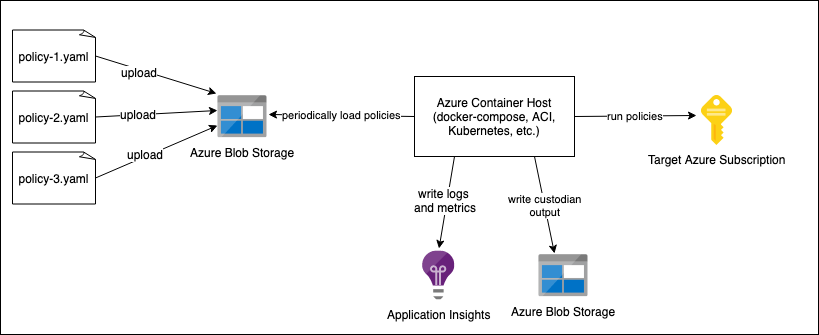
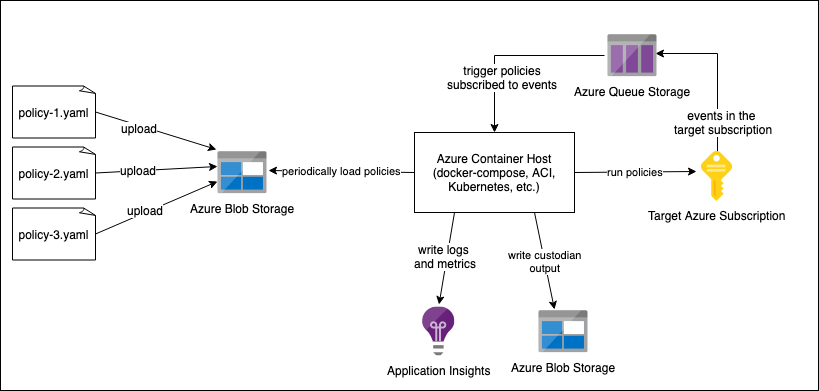
improvements to docs

diff --git a/docs/source/azure/configuration/containerhosting.rst b/docs/source/azure/configuration/containerhosting.rst
@@ -3,16 +3,23 @@
 Azure Container Hosting
 =======================
 
-The Azure Container Host is an alternative execution mode for the cloud custodian azure provider.
-Running the Azure Container Host is done with the `official custodian docker image <https://hub.docker.com/r/cloudcustodian/c7n>`_
-by providing the custom entry point, ``/usr/local/bin/python3 -m c7n_azure.container_host.host``, 
-and custom configuration through environment variables.
+The Azure Container Host is an alternate execution mode for the cloud custodian azure provider.
+Running the Azure Container Host is done with the `official custodian docker image <https://hub.docker.com/r/cloudcustodian/c7n>`_.
+See the :ref:`ACI <azure_configuration_acitutorial>` and :ref:`Kubernetes <azure_configuration_helmtutorial>` deployment tutorials
+to get started running the Azure Container Host.
+
+How It Works
+############
 
 The Azure Container Host will periodically scan azure blob storage for a set of custodian policies 
-to execute in either a periodic or event based mode against a target subscription. Once the
-Azure Container Host is deployed, any policies uploaded to blob storage are automatically loaded and
-running against an Azure Subscription. This makes it very easy to manage and run a large number of
-policies.
+to execute in either a periodic or event based mode against a target subscription. For periodic
+policies, the container host will execute the policy on the cron schedule that is provided. For event
+based policies, the container host maintains an azure queue that subscribes to events in the target
+azure subscription.
+
+Once the Azure Container Host is deployed, any policies uploaded to blob storage are automatically 
+loaded and running against an Azure Subscription. This makes it very easy to manage and run a large 
+number of policies.
 
 .. image:: resources/container-host.png
 
@@ -38,16 +45,6 @@ Configuration
 #############
 
 Configuration for the container host is provided as environment variables. 
-See :ref:`azure_authentication` for authenticating the contaienr host. 
-
-The identity provided to the container host must have the following roles in azure:
-
-- ``Reader`` and ``Storage Blob Data Contributor`` on the Storage Account that holds the policy files.
-
-- ``Reader`` and ``Storage Queue Message Processor`` on the Storage Account that the event queue will live in.
-
-- Any other roles that are needed to run the policies that the container host will run. For example, if there is a policy that filters the ``azure.vm`` resource, the ``Reader`` role will be required for the VMs that are in the container host's target subscription.
-
 There are several environment variables specific to the container host:
 
 +-----------------------------------+----------+---------------------------------------------------------------------------------------------------------------------------------------------------------------------+
@@ -65,6 +62,17 @@ There are several environment variables specific to the container host:
 +-----------------------------------+----------+---------------------------------------------------------------------------------------------------------------------------------------------------------------------+
 | ``AZURE_CONTAINER_OUTPUT_DIR``    |          | The URL of the storage account blob container to send log output to. In the format: ``azure://<storage_account_name>.blob.core.windows.net/<blob_container_name>``. |
 +-----------------------------------+----------+---------------------------------------------------------------------------------------------------------------------------------------------------------------------+
+
+In additiona to the above environment variables, authentication must be provided to the container host.
+See :ref:`azure_authentication` for authenticating the container host with an azure identity.
+
+Once an identity has been established, it will need the following roles in azure:
+
+- ``Reader`` and ``Storage Blob Data Contributor`` on the Storage Account that holds the policy files.
+
+- ``Contributor`` and ``Storage Queue Message Processor`` on the Storage Account that the event queue will live in.
+
+- Any other roles that are needed to run the policies that the container host will run. For example, if there is a policy that filters the ``azure.vm`` resource, the ``Reader`` role will be required for the VMs that are in the container host's target subscription.
 
 Running Locally
 ###############

diff --git a/docs/source/azure/configuration/index.rst b/docs/source/azure/configuration/index.rst
@@ -3,8 +3,8 @@
 Configuring Azure Policies
 ==========================
 
-Understand your options for authentication, executing policies using 
-Azure Functions and monitoring the results of policies.
+Understand your options for authentication, hosting strategies, and monitoring 
+the results of policies.
 
 .. toctree::
   :maxdepth: 2
